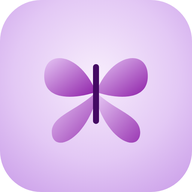
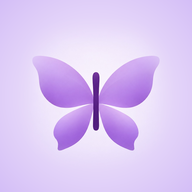
FibroMotýľ: nová ikona aplikácie (fialový motýľ)
Claude-Session: https://claude.ai/code/session_01L4SUdbQDbHoC9h3TKvDZ6v

diff --git a/sw.js b/sw.js
@@ -1,4 +1,4 @@
-const CACHE = 'fibromotyl-v3';
+const CACHE = 'fibromotyl-v4';
 const ASSETS = ['./', './index.html', './manifest.json', './icon-192.png', './icon-512.png'];
 
 self.addEventListener('install', (e) => {
